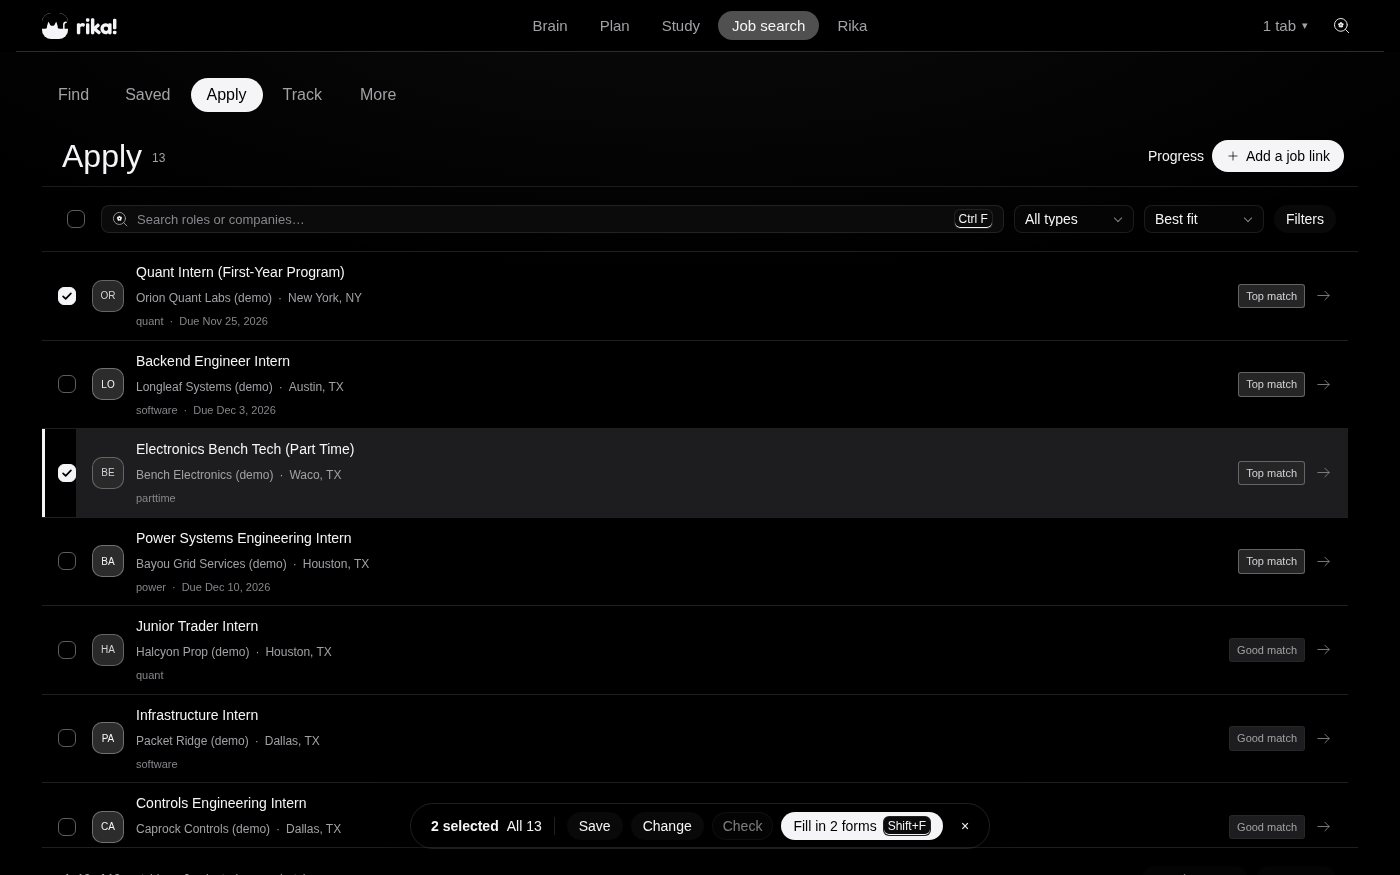
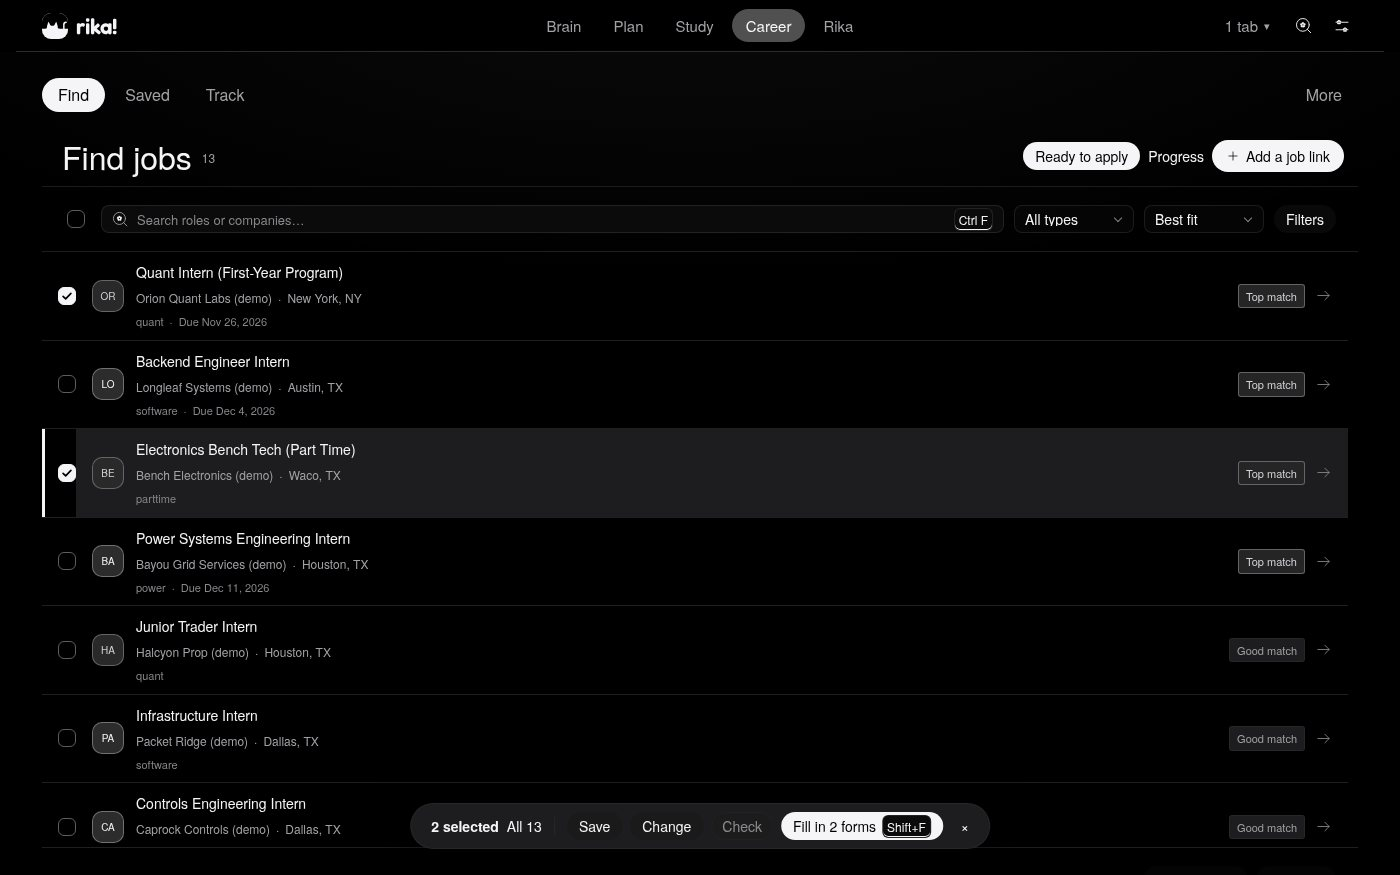
README: reorganized around an at-a-glance grid, Keys worth knowing, and grouped engineering notes; Career's Find · Saved · Track, Ctrl + R/J/O/Y; downloads point at ZacharySF/rika; every screenshot retaken from v0.3.41's demo plus a theme-carousel shot; scripts/screens/readme.mjs now produces every 

diff --git a/README.md b/README.md
@@ -8,19 +8,27 @@
 </p>
 
 <p align="center">
-  <b><a href="https://github.com/ZacharySF/kitty-releases/releases/latest">Download for Linux ↗</a></b>
+  <a href="https://github.com/ZacharySF/rika/releases/latest"><img alt="Latest release" src="https://img.shields.io/github/v/release/ZacharySF/rika?style=flat-square&label=release&labelColor=000&color=333"></a>
+  <a href="https://github.com/ZacharySF/kitty/actions/workflows/ci.yml"><img alt="CI" src="https://img.shields.io/github/actions/workflow/status/ZacharySF/kitty/ci.yml?branch=main&style=flat-square&label=ci&labelColor=000"></a>
+  <img alt="Linux x86_64" src="https://img.shields.io/badge/linux-x86__64-333?style=flat-square&labelColor=000">
+  <a href="LICENSE"><img alt="MIT licensed" src="https://img.shields.io/badge/license-MIT-333?style=flat-square&labelColor=000"></a>
+</p>
+
+<p align="center">
+  <b><a href="https://github.com/ZacharySF/rika/releases/latest">Download for Linux ↗</a></b>
   &nbsp; / &nbsp; <a href="#quick-start">Take it for a spin</a>
   &nbsp; / &nbsp; <a href="docs/GUIDE.md">Read the field guide</a><br>
   <sub>AppImage + .deb · Signed updates · MIT licensed</sub>
 </p>
 
 <p align="center">
+  <a href="#at-a-glance">At a glance</a> ·
   <a href="#your-workspace">Your workspace</a> ·
   <a href="#rika">Rika</a> ·
   <a href="#make-it-yours">Make it yours</a> ·
   <a href="#modules">Modules</a> ·
   <a href="#quick-start">Quick start</a> ·
-  <a href="#architecture">Architecture</a> ·
+  <a href="#under-the-hood">Under the hood</a> ·
   <a href="#reference">Reference</a>
 </p>
 
@@ -29,9 +37,44 @@
 <p align="center"><b>A little less scattered. A lot more connected.</b></p>
 
 <p align="center">
-  <img src="docs/screenshots/readme/home.jpg" width="100%" alt="The rika! home dashboard on black: today, a quick note and a focus timer on the left; up next and an agent session in the middle; and the Rika panel on the right with three drafted replies waiting for Send.">
+  <img src="docs/screenshots/readme/home.jpg" width="100%" alt="The rika! home dashboard on black: today's schedule with a line for now, a quick note and a focus timer on the left; up next and an agent session in the middle; and the Rika panel on the right with three drafted replies waiting for Send.">
 </p>
 <p align="center"><sub>Home: today, what's next, and Rika on the right with your replies already drafted.</sub></p>
+
+<br>
+
+## At a glance
+
+<table>
+  <tr>
+    <td width="33%" valign="top">
+      <b>Write</b><br>
+      <sub>Blocks, <code>[[wiki]]</code> links and <code>((block))</code> references. Documents, PDFs, canvases, mind maps and floating quick notes.</sub>
+    </td>
+    <td width="33%" valign="top">
+      <b>Plan</b><br>
+      <sub>A calendar, tasks and goals, with flashcards and study beside the material you're learning.</sub>
+    </td>
+    <td width="33%" valign="top">
+      <b>See</b><br>
+      <sub>The Brain: every record and every edit as a point on a 3D brain or a flat 2D map.</sub>
+    </td>
+  </tr>
+  <tr>
+    <td width="33%" valign="top">
+      <b>Delegate</b><br>
+      <sub>Rika reads what changed, drafts the replies and keeps an eye on your coding agents. You press Send.</sub>
+    </td>
+    <td width="33%" valign="top">
+      <b>Shape</b><br>
+      <sub>Rearrange any page, start home from eighteen templates, and pick Black or seventeen other themes.</sub>
+    </td>
+    <td width="33%" valign="top">
+      <b>Grow</b><br>
+      <sub>Switch modules on and off. Heavy parts download as signed packs only when you ask for them.</sub>
+    </td>
+  </tr>
+</table>
 
 <br>
 
@@ -56,9 +99,9 @@ You don't have to know where an idea belongs before you write it down.
 
 Keep flashcards and study beside the material you're learning. Put the next
 step on your calendar or task list, set a goal and watch what moves it.
-Open another tab, or use the command palette to move without losing your place.
+Open another tab, or use search to move without losing your place.
 
-<img src="docs/screenshots/readme/calendar.jpg" width="100%" alt="The calendar's week view: one header row with the range, Today, and Day, Week, Month, Agenda, Year and Plan; a hairline grid with soft colour-barred events, today's date in a filled circle and a line marking the time now; a small month and the selected day's agenda on the right.">
+<img src="docs/screenshots/readme/calendar.jpg" width="100%" alt="The calendar's week view: the Calendar title as a menu, one row with the range, Today, and Day, Week, Month, Agenda, Year and Plan; a hairline grid of grey events, today's date in a filled circle and a line marking the time now; a small month, the week's hours and the selected day's agenda on the right.">
 <p align="center"><sub>The calendar: one quiet row of controls, a line for now, and the day you picked beside it.</sub></p>
 
 ### 03 &nbsp; Follow the thread
@@ -68,7 +111,7 @@ neural-network map of everything you've written, studied and planned. Prefer
 flat ground? Switch to the **2D** map, where every point carries its name.
 Same records, different ways to find your bearings.
 
-<img src="docs/screenshots/readme/brain.jpg" width="100%" alt="The Brain view: a glowing neural-network brain threaded in red, orange, green and blue, above a legend counting applications, jobs, reminders, notes, calendar and more.">
+<img src="docs/screenshots/readme/brain.jpg" width="100%" alt="The Brain view: a glowing neural-network brain threaded in red, orange, yellow, green and blue, above a legend counting calendar, applications, jobs, reminders and flashcards.">
 <p align="center"><sub>The Brain as its own view. Demo workspace, synthetic data.</sub></p>
 
 <br>
@@ -79,7 +122,7 @@ Same records, different ways to find your bearings.
 
 Rika reads what changed overnight and tells you in a few lines. She drafts the
 replies; **you** press Send. Ask her for something by typing, or by talking if
-you turn Voice on.
+you turn Voice on. Press **Ctrl + R** and she docks beside whatever page you're on.
 
 She has a page of her own for everything else: the coding agents working for
 you (what each is doing, how full its context is, what it has cost), the skills
@@ -99,9 +142,9 @@ an edge to resize it, and open **Widgets** to drag in a clock, a quick note or
 your goals. Press Done and the page stays that way.
 
 Home goes further: eighteen templates to start from, widgets in the order you
-like, and six quiet colours to tell them apart.
+like, and six quiet tones to tell them apart.
 
-<img src="docs/screenshots/readme/edit.jpg" width="100%" alt="Edit mode on the Find jobs page: a clock and a quick note dragged onto the page, a dashed outline with a grip around the quick note, and a small bar at the bottom with Widgets, Remove widget, Reset page and Done.">
+<img src="docs/screenshots/readme/edit.jpg" width="100%" alt="Edit mode on the Find jobs page: a clock and a quick note dragged onto the page, a dashed outline with a grip around the quick note, and a small bar at the bottom with Widgets, Parent, Remove widget, Reset page and Done.">
 <p align="center"><sub>Edit any page: move it, size it, drag a widget in.</sub></p>
 
 ### Black by default. Loud when you want it.
@@ -109,13 +152,31 @@ like, and six quiet colours to tell them apart.
 rika! opens in **Black**: white type, hairlines, nothing glowing. Turn Themes on
 for seventeen more, from Nord and Gruvbox to **Kitty**, a record sleeve from
 about 1999 with a different film still behind it every time you open it.
+Press **Ctrl + Y** to slide through them live; Enter keeps one, Esc puts yours back.
 
 Turn **Animations** on and pages turn instead of blinking: they slide in the
 order of the bar, grow out of what you pressed, and the marker of where you are
 glides over. Everything stops if your system asks for less motion.
 
-<img src="docs/screenshots/readme/kitty.jpg" width="100%" alt="The Kitty theme: the same home in heavy capitals and tube yellow over a green, grainy film still of a corridor, with the page's name running down the edge.">
-<p align="center"><sub>The Kitty theme. Same home, different night.</sub></p>
+<p align="center">
+  <img src="docs/screenshots/readme/kitty.jpg" width="49%" alt="The Kitty theme: the same home in heavy capitals and tube yellow over a green, grainy film still of a corridor, with the page's name running down the edge.">
+  <img src="docs/screenshots/readme/themes.jpg" width="49%" alt="The theme carousel: five theme cards in a row over a blurred, blossom-pink preview of the page, with Blossom raised in the middle and the hint 'Ctrl + Y next · Enter keep · Esc undo' beneath.">
+</p>
+<p align="center"><sub>Left: the Kitty theme. Same home, different night. Right: Ctrl + Y, previewing Blossom.</sub></p>
+
+### Keys worth knowing
+
+| Keys | What they do |
+| --- | --- |
+| <kbd>Ctrl</kbd> <kbd>Space</kbd> or <kbd>Ctrl</kbd> <kbd>K</kbd> | Search commands, sections and jobs |
+| <kbd>Ctrl</kbd> <kbd>Shift</kbd> <kbd>Space</kbd> | Edit the page you're on |
+| <kbd>Ctrl</kbd> <kbd>R</kbd> | Rika beside the page; again or Esc to close |
+| <kbd>Ctrl</kbd> <kbd>J</kbd> | Ask Rika from anywhere but a terminal |
+| <kbd>Ctrl</kbd> <kbd>O</kbd> | Every open tab as a card: arrows or 1–9, Enter to open |
+| <kbd>Ctrl</kbd> <kbd>Tab</kbd> · <kbd>Ctrl</kbd> <kbd>T</kbd> · <kbd>Ctrl</kbd> <kbd>W</kbd> | Next tab · new tab · close tab |
+| <kbd>Ctrl</kbd> <kbd>Y</kbd> | Slide through your themes live |
+| <kbd>Ctrl</kbd> <kbd>Shift</kbd> <kbd>F</kbd> | Fill the window with the focused panel |
+| <kbd>?</kbd> | Every shortcut for the screen you're on |
 
 <br>
 
@@ -133,14 +194,14 @@ or download the Brain when you want to see it all at once.
 
 | Module | What it brings |
 | --- | --- |
+| **Core** · always on | Home, Rika, tabs, search, settings and module selection. |
 | **Workspace** | Notes and block references, documents and PDFs, canvas, mind maps, flashcards, study, calendar, tasks, goals and floating quick notes. |
 | **Terminal** | A pinned [herdr](https://github.com/herdrdev/herdr) session in a resizable dock. Open omp, Claude or Codex in labelled agent tabs with live activity. |
-| **ApplyAI** · optional | Job search in four steps: Find, Saved, Apply, Track. It fills forms but **never submits an application** and never invents facts about the applicant. |
+| **ApplyAI** · optional | Career: Find, Saved and Track in one bar. It fills forms but **never submits an application** and never invents facts about the applicant. |
 | **Math**, **LearnHarness**, **Voice** · download | Checked math practice, the LearnHarness app inside Study, and talking to Rika. Each fetches what it needs when you turn it on. |
 | **Brain** · download | Your workspace as a 3D brain or a 2D map, as its own view. |
 | **Themes**, **Animations** · download | Seventeen more looks, and motion for pages, widgets and menus. Off until you ask. |
 | **Icons** | An icon beside every name, if you like them there. |
-| **Core** · always on | Home, Rika, tabs, command palette, settings and module selection. |
 
 ### Small to install. Yours to grow.
 
@@ -158,9 +219,13 @@ If you separately install [Stencil Tern](https://stencil.so/tern), rika! can
 also drive its own Tern session: list live and exited panes, run a command,
 focus a pane, or capture one to a quick note.
 
-### Looking for work? Four steps, one bar.
+### Looking for work? Three tabs, one bar.
 
-<img src="docs/screenshots/readme/jobs.jpg" width="100%" alt="The Apply page of job search: Find, Saved, Apply and Track across the top, a list of ranked jobs with two ticked, and a small bar at the bottom offering Save, Change, Check and Fill in 2 forms.">
+**Career** keeps the search in one place: **Find** what's open, keep what you
+like in **Saved**, and follow what you sent in **Track**, with Rika in a column
+beside it. **Ready to apply** narrows Find to the jobs you can fill in now.
+
+<img src="docs/screenshots/readme/jobs.jpg" width="100%" alt="Career's Find jobs page: Find, Saved and Track across the top with More on the right, Ready to apply beside Progress and Add a job link, a list of ranked jobs with two ticked, and a small bar at the bottom offering Save, Change, Check and Fill in 2 forms.">
 <p align="center"><sub>Tick the jobs, press Fill. rika! stops before Submit, every time.</sub></p>
 
 ### Leave the clutter. Keep the data.
@@ -174,8 +239,14 @@ The [module guide](docs/MODULES.md) explains the format and how to publish one.
 
 ## Quick start
 
-**Just want the desktop app?** [Download the latest Linux release](https://github.com/ZacharySF/kitty-releases/releases/latest).
-Choose the AppImage or .deb; signed updates are built in.
+### The desktop app
+
+1. **[Download the latest release.](https://github.com/ZacharySF/rika/releases/latest)**
+2. Install the `.deb` with your software installer, or run the AppImage.
+3. Open rika! from your application launcher and choose **Start locally**.
+
+Updates are signed: use **Check for updates** inside the app. Your workspace
+lives apart from the application and stays put across updates.
 
 <p align="center">
   <img src="docs/screenshots/readme/welcome.jpg" width="62%" alt="The rika! welcome card: a glowing neural-network brain above the words 'Welcome to rika!', with Continue with Google and Start locally buttons">
@@ -209,7 +280,11 @@ uv run kitty-web
 The [full guide](docs/GUIDE.md) covers modules, the desktop build, configuration
 and every command. The repository and CLI still use the `kitty` name.
 
-## Architecture
+<br>
+
+## Under the hood
+
+### Architecture
 
 ```mermaid
 flowchart LR
@@ -247,7 +322,9 @@ same functions against the same database. And the core is moving to Rust one
 route at a time: a route moves only with a test that it answers exactly as the
 Python it replaces ([how, and what stays in Python](docs/rust-core-design.md)).
 
-## Engineering notes
+### Engineering notes
+
+**Your data**
 
 - **Edits are never silently lost.** Pages, folders and block outlines carry a revision;
   a save against a stale revision is rejected, and a second window editing the
@@ -257,24 +334,31 @@ Python it replaces ([how, and what stays in Python](docs/rust-core-design.md)).
   expansion.
 - **History is append-only where it matters.** Application status changes are
   events; undo appends a reverting event instead of rewriting history.
+
+**Security and shipping**
+
 - **The local server is not an open door.** It binds to loopback, checks the
   exact Host and Origin, requires a custom header on every mutation, and requires
   a per-launch secret only rika!'s own windows hold on every API call and
   WebSocket, so a local program that forges the headers still gets nothing.
-- **Rust where it pays.** Calendar, search, goals, study, flashcards, mind maps
-  and settings are answered by rika-server; the flashcard scheduler is an exact
-  port, checked against the Python one card by card. What leans on Python's own
-  libraries (math checking, job scraping, form filling) stays there.
 - **Downloads are checked twice.** A pack is fetched only from the release of the
   running version, against a list signed with the updater key, then against its
   size and SHA-256; a failed download changes nothing.
 - **It ships.** Tauri builds signed Linux installers in CI and the app updates
   itself, including through an `appimage-run` launcher on NixOS.
+
+**Rust and Python**
+
+- **Rust where it pays.** Calendar, search, goals, study, flashcards, mind maps,
+  backlinks, opportunities and settings are answered by rika-server; the
+  flashcard scheduler is an exact port, checked against the Python one card by
+  card. What leans on Python's own libraries (math checking, job scraping, form
+  filling) stays there.
 - **Browser automation without a framework.** ApplyAI drives Firefox through its
   own WebDriver BiDi client and stops at every human boundary: sign-in
   challenges, consent, unknown answers and the final submit.
 
-## Develop
+### Develop
 
 ```bash
 uv run pytest -n auto                           # Python core, web adapter, TUI
@@ -285,7 +369,10 @@ npm --prefix web run check                      # svelte-check / TypeScript
 
 The browser tests in `web/tests/*.browser.test.mjs` drive a real Chromium against
 the demo; run them one file at a time. CI runs the Python tests, the frontend
-check and the web unit tests on every pull request.
+check and the web unit tests on every pull request. The README's screenshots come
+from the demo through [`scripts/screens/`](scripts/screens/README.md).
+
+<br>
 
 ## Reference
 
@@ -296,25 +383,20 @@ check and the web unit tests on every pull request.
 | Building and publishing an add-on | [Module guide](docs/MODULES.md) |
 | The move to Rust: rules, what is built, what stays | [Rust core design](docs/rust-core-design.md) |
 | Rika: how she is put together | [Rika design](docs/rika-design.md) |
-| Linux installers and release notes | [Desktop releases](https://github.com/ZacharySF/kitty-releases/releases/latest) |
+| Why the interface looks the way it does | [Design decisions](docs/design-decisions.md) |
+| Linux installers and release notes | [Desktop releases](https://github.com/ZacharySF/rika/releases/latest) |
 
 ## Built on
 
 rika! integrates these projects rather than reimplementing them; credit for
 their features belongs to their authors.
 
-- [herdr](https://github.com/herdrdev/herdr) (Apache-2.0): the terminal
-  multiplexer behind the Terminal module, bundled at a pinned version.
-- [LearnHarness](https://github.com/amosblomqvist/learnharness) (AGPL-3.0): the
-  upstream learning app opened from Study, run as a separate local server in a
-  cross-origin frame. Its licence and corresponding source ship with the desktop
-  app.
-- [Grinstead and Snell's *Introduction to Probability*](https://math.dartmouth.edu/~doyle/docs/prob/)
-  (GNU FDL): its exercises, used as a textbook source in Math, ship with their
-  licence and source note in `third_party/grinstead-snell/`.
-- [Tauri](https://tauri.app), [Svelte](https://svelte.dev),
-  [Textual](https://textual.textualize.io) and
-  [3d-force-graph](https://github.com/vasturiano/3d-force-graph).
+| Project | Licence | What it does here |
+| --- | --- | --- |
+| [herdr](https://github.com/herdrdev/herdr) | Apache-2.0 | The terminal multiplexer behind the Terminal module, bundled at a pinned version. |
+| [LearnHarness](https://github.com/amosblomqvist/learnharness) | AGPL-3.0 | The upstream learning app opened from Study, run as a separate local server in a cross-origin frame. Its licence and corresponding source ship with the desktop app. |
+| [Grinstead and Snell's *Introduction to Probability*](https://math.dartmouth.edu/~doyle/docs/prob/) | GNU FDL | Its exercises, used as a textbook source in Math, ship with their licence and source note in `third_party/grinstead-snell/`. |
+| [Tauri](https://tauri.app), [Svelte](https://svelte.dev), [Textual](https://textual.textualize.io), [3d-force-graph](https://github.com/vasturiano/3d-force-graph) | MIT (Tauri: MIT or Apache-2.0) | The desktop shell, the interface, the TUI and the 3D graph views. |
 
 The README wordmark uses [Fraunces](https://fraunces.undercase.xyz), by Undercase
 Type, with a subset embedded under the [SIL Open Font License](docs/assets/OFL-Fraunces.txt).

diff --git a/scripts/screens/README.md b/scripts/screens/README.md
@@ -10,7 +10,7 @@ uv run kitty-web --demo --port 8890          # prints a one-use link; each later
 node scripts/screens/tour.mjs "<link>" /tmp/design-labs/tour          # widget colours, forms, job list, the Kitty theme
 node scripts/screens/animations.mjs "<link>" /tmp/design-labs/animations   # a video and slowed frames of the Animations module
 node scripts/screens/calendar.mjs "<link>" /tmp/design-labs/calendar  # every calendar view (add --kitty for that theme too)
-node scripts/screens/readme.mjs "<link>" /tmp/readme-shots            # the README's 1400x875 JPEGs
+node scripts/screens/readme.mjs "<link>" /tmp/readme-shots            # every README image (adds a synthetic week to the demo's calendar)
 python3 scripts/screens/gallery.py /tmp/design-labs/tour "Title"      # index.html from the folder's shots.json
 python3 -m http.server 8790 --directory /tmp/design-labs              # then open http://127.0.0.1:8790/tour/index.html
 ```
